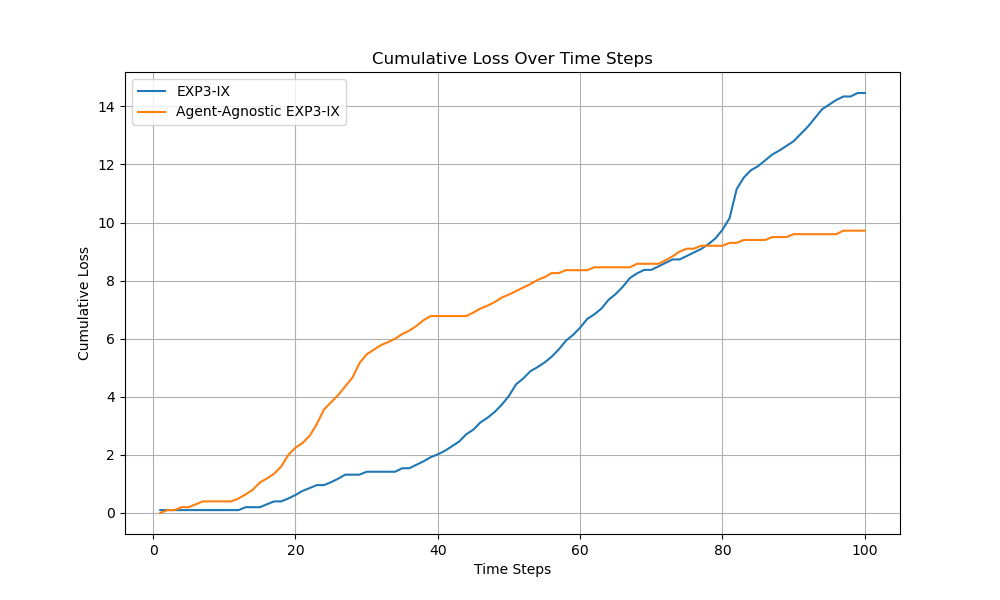
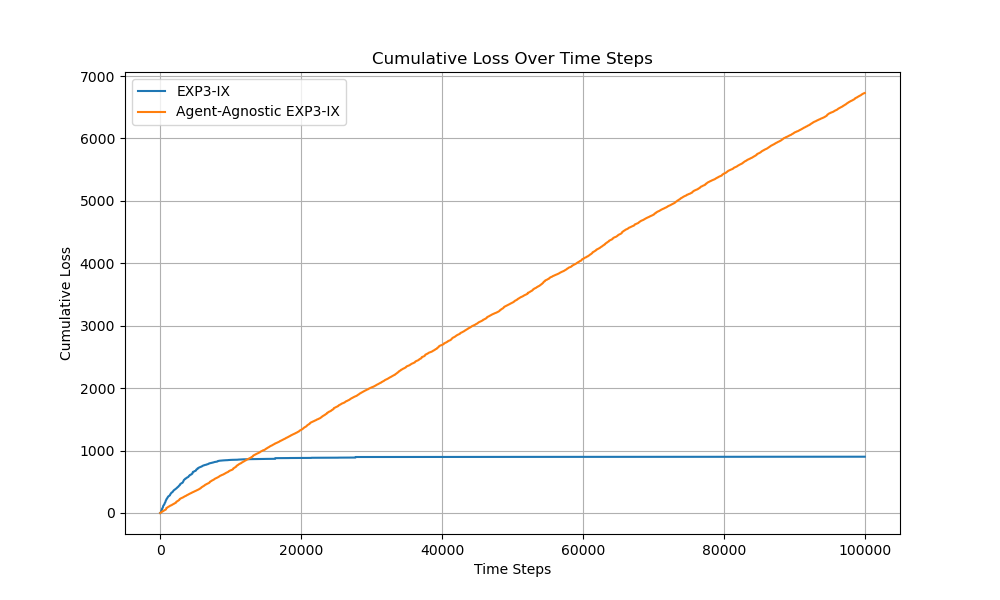
regret per state update

diff --git a/RL/model-implementation/main.py b/RL/model-implementation/main.py
@@ -6,8 +6,6 @@ from RedAgent import RedAgent
 from RedAgentBandit import RedAgent
 
 from utility import plot_graph
-from utility import plot_scaled_sum_policy_over_time
-from utility import find_most_favored_action
 from utility import plot_regret
 
 
@@ -38,7 +36,12 @@ def EQasAgent(total_iteration=10000):
     loss_over_all_actions = {action: 0 for action in blueAgentActions}
     regret = []
 
-    for _ in range(total_iteration): 
+    regret_per_state = {}
+    regret_per_state_iteration = {}
+    loss_per_state_action = {}
+    loss_per_state= {}
+
+    for iteration in range(total_iteration): 
         state = env.current_state 
         blueActionIndex = blueAgent.get_action(state)
         # RedActionIndex = redAgent.get_action(redAgentActions)
@@ -46,17 +49,57 @@ def EQasAgent(total_iteration=10000):
         blueAction = blueAgentActions[blueActionIndex]
         RedAction = redAgent.get_action(redAgentActions)
 
-        nextstate,loss = env.step(blueAction,RedAction) 
+        next_state,loss = env.step(blueAction,RedAction) 
         blueAgent.update_policy(state, blueActionIndex,loss)
 
         losses.append(loss)
         log.append([blueAgentActions[blueActionIndex],state,loss])
 
+        if next_state not in regret_per_state:
+            regret_per_state[next_state] = [loss]
+            regret_per_state_iteration[next_state]=[iteration]
+        else:
+            current_total = regret_per_state[next_state][-1]+loss
+            regret_per_state[next_state].append(current_total)
+            regret_per_state_iteration[next_state].append(iteration)
+
+        # ------------------- Total Regret -------------------
         for action in blueAgentActions:
             loss_over_all_actions[action] += env.get_loss(action)
         
         best_current_action = min(loss_over_all_actions, key=loss_over_all_actions.get)
         regret.append(sum(losses)-loss_over_all_actions[best_current_action])
+
+        # ------------------- Regret per State -------------------
+        # getting the actual loss encountered for each state
+        if next_state not in loss_per_state:
+            loss_per_state[next_state] = [loss]
+        else:
+            loss_per_state[next_state].append(loss)
+
+        # getting the loss as if the agent had chosen each action
+        for action in blueAgentActions:
+            action_loss = env.get_loss(action)
+            if next_state not in loss_per_state_action:
+                loss_per_state_action[next_state] = {action:action_loss} 
+            elif action not in loss_per_state_action[next_state]:
+                loss_per_state_action[next_state][action]=action_loss
+            else:
+                loss_per_state_action[next_state][action] += action_loss
+
+        # calculating the regret for this state
+        if next_state not in regret_per_state:
+            best_loss = min(loss_per_state_action[next_state].values())
+            total_loss = sum(loss_per_state[next_state])
+            regret_per_state[next_state] = [total_loss - best_loss]
+            regret_per_state_iteration[next_state] = [iteration]
+        else:
+            best_loss = min(loss_per_state_action[next_state].values())
+            total_loss = sum(loss_per_state[next_state])
+            regret_per_state[next_state].append(total_loss - best_loss)
+            regret_per_state_iteration[next_state].append(iteration)
+
+
 
     # Output the policy and visit counts
     print(f"Policy for state '{state}':", blueAgent.eq_approx[state])
@@ -64,7 +107,7 @@ def EQasAgent(total_iteration=10000):
 
     # print("log",log)
     # plot_graph(losses,name="EQasAgent")
-    return losses,regret
+    return losses,regret, regret_per_state,regret_per_state_iteration
 
 def EQasObserver(total_iteration=10000):
     print("\nEQ as Observer")
@@ -102,6 +145,10 @@ def EQasObserver(total_iteration=10000):
     loss_over_all_actions = {action: 0 for action in blueAgentActions}
     regret = []
 
+    regret_per_state = {}
+    regret_per_state_iteration = {}
+    loss_per_state_action = {}
+    loss_per_state= {}
     for iteration in range(total_iteration): 
         state = env.current_state                                                       # get the current state from teh environment
         BlueActionIndex = blueAgent.choose_action(state)                                # let the Q learning agent choose an action
@@ -118,46 +165,56 @@ def EQasObserver(total_iteration=10000):
         log.append([blueAgentActions[BlueActionIndex],state,loss])
         action_count[blueAgentActions[BlueActionIndex]] += 1
 
+        # ------------------- Total Regret -------------------
         for action in blueAgentActions:
             loss_over_all_actions[action] += env.get_loss(action)
-        
+
         best_current_action = min(loss_over_all_actions, key=loss_over_all_actions.get)
         regret.append(sum(losses)-loss_over_all_actions[best_current_action])
-
-        # Print the sum of policy snapshot every fixed iterations
-        # if (iteration + 1) % int(checkpoint_frequency) == 0:
-        #     # print(f"Iteration {iteration + 1}: Sum of Policy Snapshot:")
-        #     checkpoints.append(iteration + 1)  # Record the checkpoint iteration
-        #     for state, policy_sum in EQobserver.sumOfPolicy.items(): 
-        #         if state not in policy_sums_over_time:
-        #             policy_sums_over_time[state] = []  # Initialize it if not present
-        #        # Iterate through each state's policy sums
-        #         print(f"policy_sum: {policy_sum}",state)
-        #         scaled_sum_of_policy = policy_sum[state] / (iteration + 1)  
-        #         policy_sums_over_time[state].append(scaled_sum_of_policy) 
-
         
-    # print("log: action, state, loss",log)
-    # best_state,best_action,max_value =find_most_favored_action(EQobserver.sumOfPolicy)
-    # print(EQobserver.sumOfPolicy)
-    # print(f"state {best_state} and action {blueAgentActions[best_action]} has the highset sum of policy value with {max_value}")
-    # print("action count" ,action_count)
-    # plot_graph(losses,name="EQasObserver")
-    # plot_scaled_sum_policy_over_time(policy_sums_over_time, checkpoints, blueAgentActions)   
+        # ------------------- Regret per State -------------------
+        # getting the actual loss encountered for each state
+        if next_state not in loss_per_state:
+            loss_per_state[next_state] = [loss]
+        else:
+            loss_per_state[next_state].append(loss)
 
-    # Output the policy and visit counts
+        # getting the loss as if the agent had chosen each action
+        for action in blueAgentActions:
+            if next_state not in loss_per_state_action:
+                loss_per_state_action[next_state] = {action:env.get_loss(action)} 
+            elif action not in loss_per_state_action[next_state]:
+                loss_per_state_action[next_state][action]=env.get_loss(action)
+            else:
+                loss_per_state_action[next_state][action] += env.get_loss(action)
+
+        # calculating the regret for this state
+        if next_state not in regret_per_state:
+            best_loss = min(loss_per_state_action[next_state].values())
+            total_loss = sum(loss_per_state[next_state])
+            regret_per_state[next_state] = [total_loss - best_loss]
+            regret_per_state_iteration[next_state] = [iteration]
+        else:
+            best_loss = min(loss_per_state_action[next_state].values())
+            total_loss = sum(loss_per_state[next_state])
+            regret_per_state[next_state].append(total_loss - best_loss)
+            regret_per_state_iteration[next_state].append(iteration)
+
     print(f"Q-learner: Policy Q-table':\n", blueAgent.q_table)
     print(f"CCE: Policy for state '{state}':", EQobserver.eq_approx_unknown[str(state)])
     print(f"CCE: Visit counts for state '{state}':", EQobserver.visit_count_unknown[str(state)])
-    return losses,regret
+    return losses,regret, regret_per_state,regret_per_state_iteration
     
-lossEQAgent,regretEQAgent = EQasAgent(total_iteration=100)
-lossEQobserver,regretEQobserver = EQasObserver(total_iteration=100)
+lossEQAgent,regretEQAgent,regretper_stateEQAgent,regretper_stateIterationEQAgent = EQasAgent(total_iteration=100000)
+lossEQobserver,regretEQobserver,regretper_stateEQObserver, regretper_stateIterationEQObserver= EQasObserver(total_iteration=100000)
 
 names_list = ["EXP3-IX", "Agent-Agnostic EXP3-IX"]
 
 losses_list = [lossEQAgent, lossEQobserver]
 regret_list = [regretEQAgent, regretEQobserver]
+regret_per_state_list = [regretper_stateEQAgent,regretper_stateEQObserver]
+regret_per_state_iteration_list = [regretper_stateIterationEQAgent,regretper_stateIterationEQObserver]
 
 plot_graph(losses_list, names_list,"Loss")
 plot_graph(regret_list, names_list,"Regret")
+plot_regret(names_list,regret_per_state_iteration_list,regret_per_state_list)

diff --git a/RL/model-implementation/utility.py b/RL/model-implementation/utility.py
@@ -72,13 +72,30 @@ def find_most_favored_action(sumOfPolicy):
 
     return favored_state, favored_action, max_value
 
-def plot_regret(regret):
-    plt.figure(figsize=(10, 5))
-    plt.plot(regret, label='Cumulative Regret')
-    plt.xlabel('Time Step')
-    plt.ylabel('Cumulative Regret')
-    plt.title('Cumulative Regret Over Time')
-    plt.legend()
-    plt.grid(True)
+def plot_regret(names_list, regret_per_state_list, regret_per_state_iteration_list):
+    """
+    Plots cumulative regret per state for multiple agents.
 
-    plt.show()
+    :param names_list: List of names for each agent.
+    :param regret_per_state_list: List of dictionaries with cumulative regrets per state for each agent.
+    :param regret_per_state_iteration_list: List of dictionaries with iteration counts for regrets per state for each agent.
+    """
+    plt.figure(figsize=(15, 10))  # Set a larger figure size for better readability
+    line_styles = {
+        "EXP3-IX": 'solid',  # Example: Solid line for EXP3-IX
+        "Agent-Agnostic EXP3-IX": 'dashed'  # Example: Dashed line for Agent-Agnostic EXP3-IX
+    }
+    # Loop through each agent's data
+    for name, regrets_per_state, iterations_per_state in zip(names_list, regret_per_state_list, regret_per_state_iteration_list):
+        style = line_styles.get(name, 'solid')
+        for state, regrets in regrets_per_state.items():
+            iterations = iterations_per_state[state]
+            plt.plot(regrets, iterations,label=f'{name} - state {state}', linestyle=style)
+    
+    # Plot customization
+    plt.title('Cumulative Regret per State for Multiple Agents')
+    plt.xlabel('Iterations')
+    plt.ylabel('Cumulative Regret')
+    plt.legend(loc='best')
+    plt.grid(True)
+    plt.savefig('cumulative_regret_comparison.png')  # Save the plot as a file
